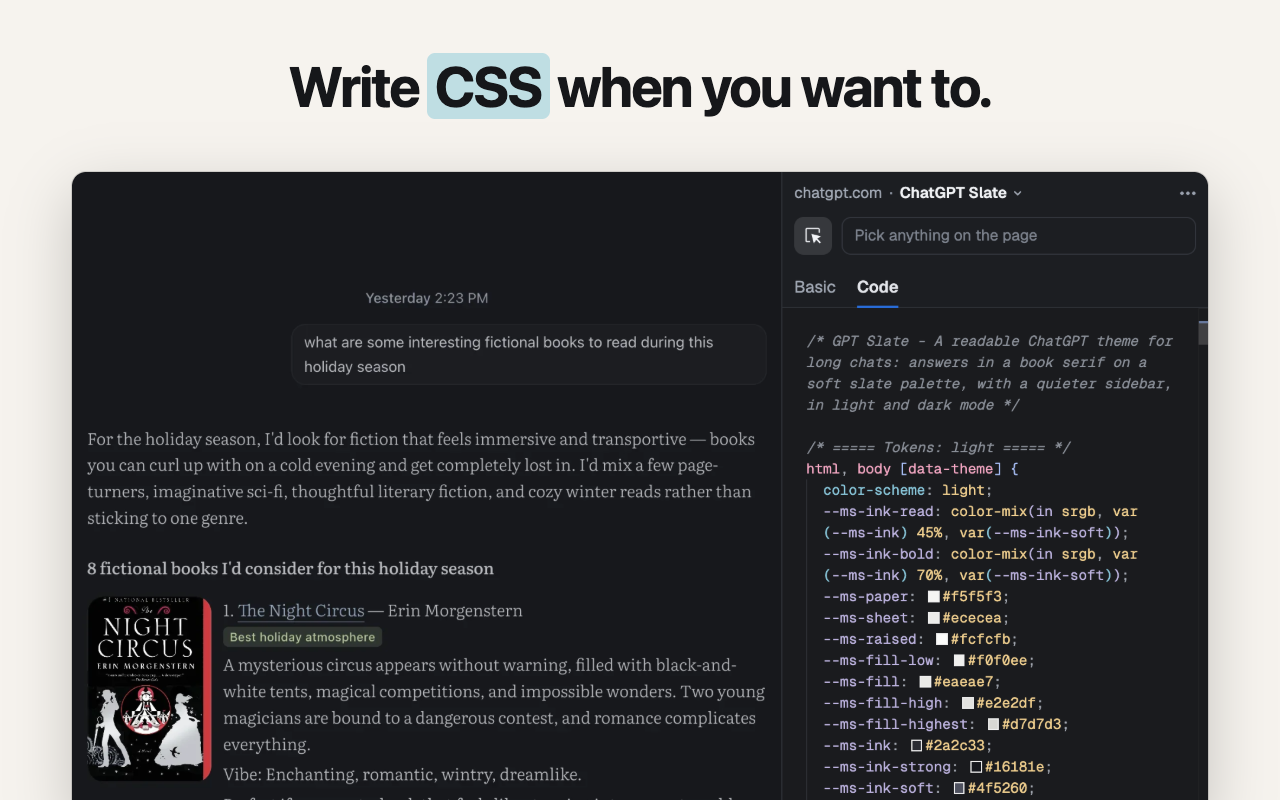
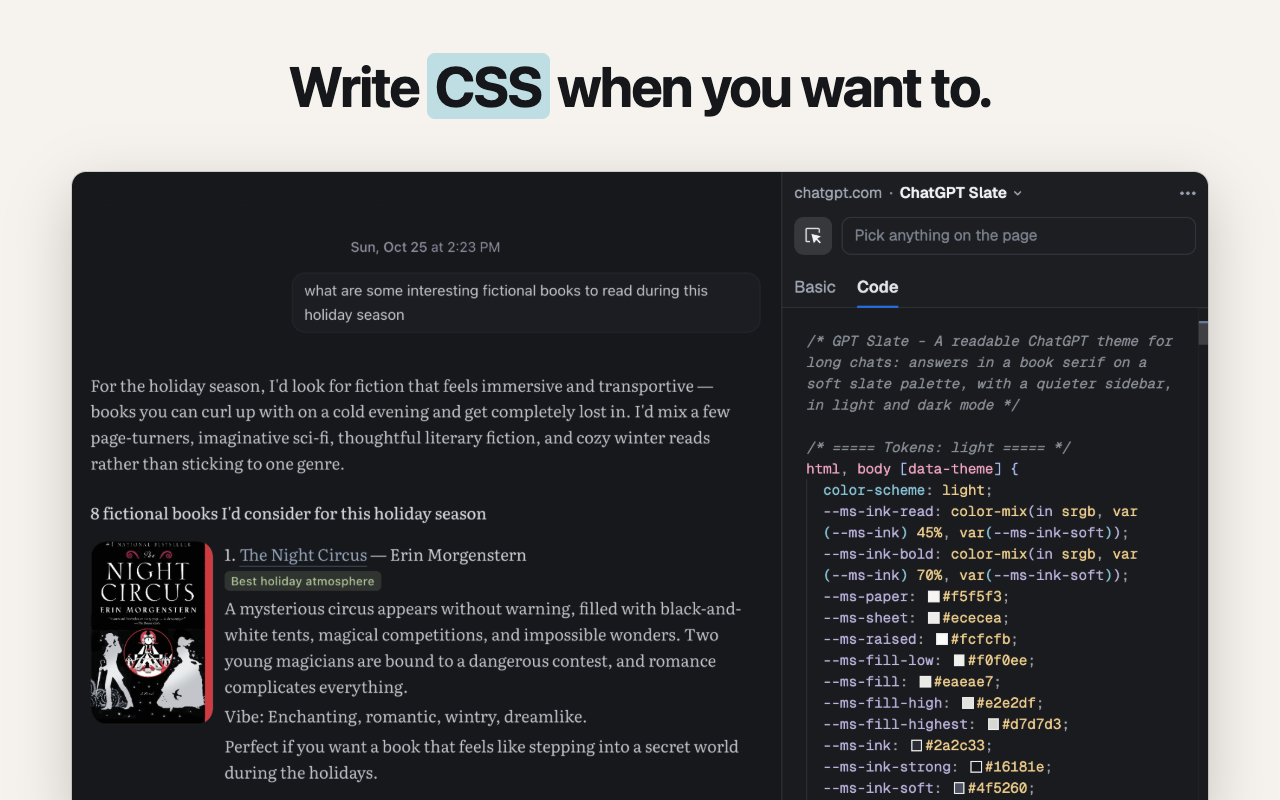
feat(store): 2x Firefox set, Mac App Store 4.5.0 shots and What's New, sharper ChatGPT and Reddit pages

Changed region(s): [[0.0625, 0.3438, 0.5938, 1.0], [0.2812, 0.2812, 0.375, 0.3125]]

diff --git a/.agents/skills/capture-store/SKILL.md b/.agents/skills/capture-store/SKILL.md
@@ -43,6 +43,9 @@ Open each PNG and check, before saying they're done:
   Chrome out: the Code shot (ChatGPT Slate's, with its Gallery CSS in the editor) and
   CLI mode (Reddit Zen's, under a real terminal). Republish the style to change them,
   and check the note and reply in `cli-shot.mjs` still describe the Reddit screenshot.
+  The Code shot uses `captures/store/chatgpt.png` instead when it's there: a sharper
+  2x page from `yarn stylebot screenshot <tab> --scale 2` on a ChatGPT tab with
+  ChatGPT Slate on, cut to the conversation at 3:4, with no account name or chat list.
 
 Send the user the images in order, then commit them once they're happy.
 
